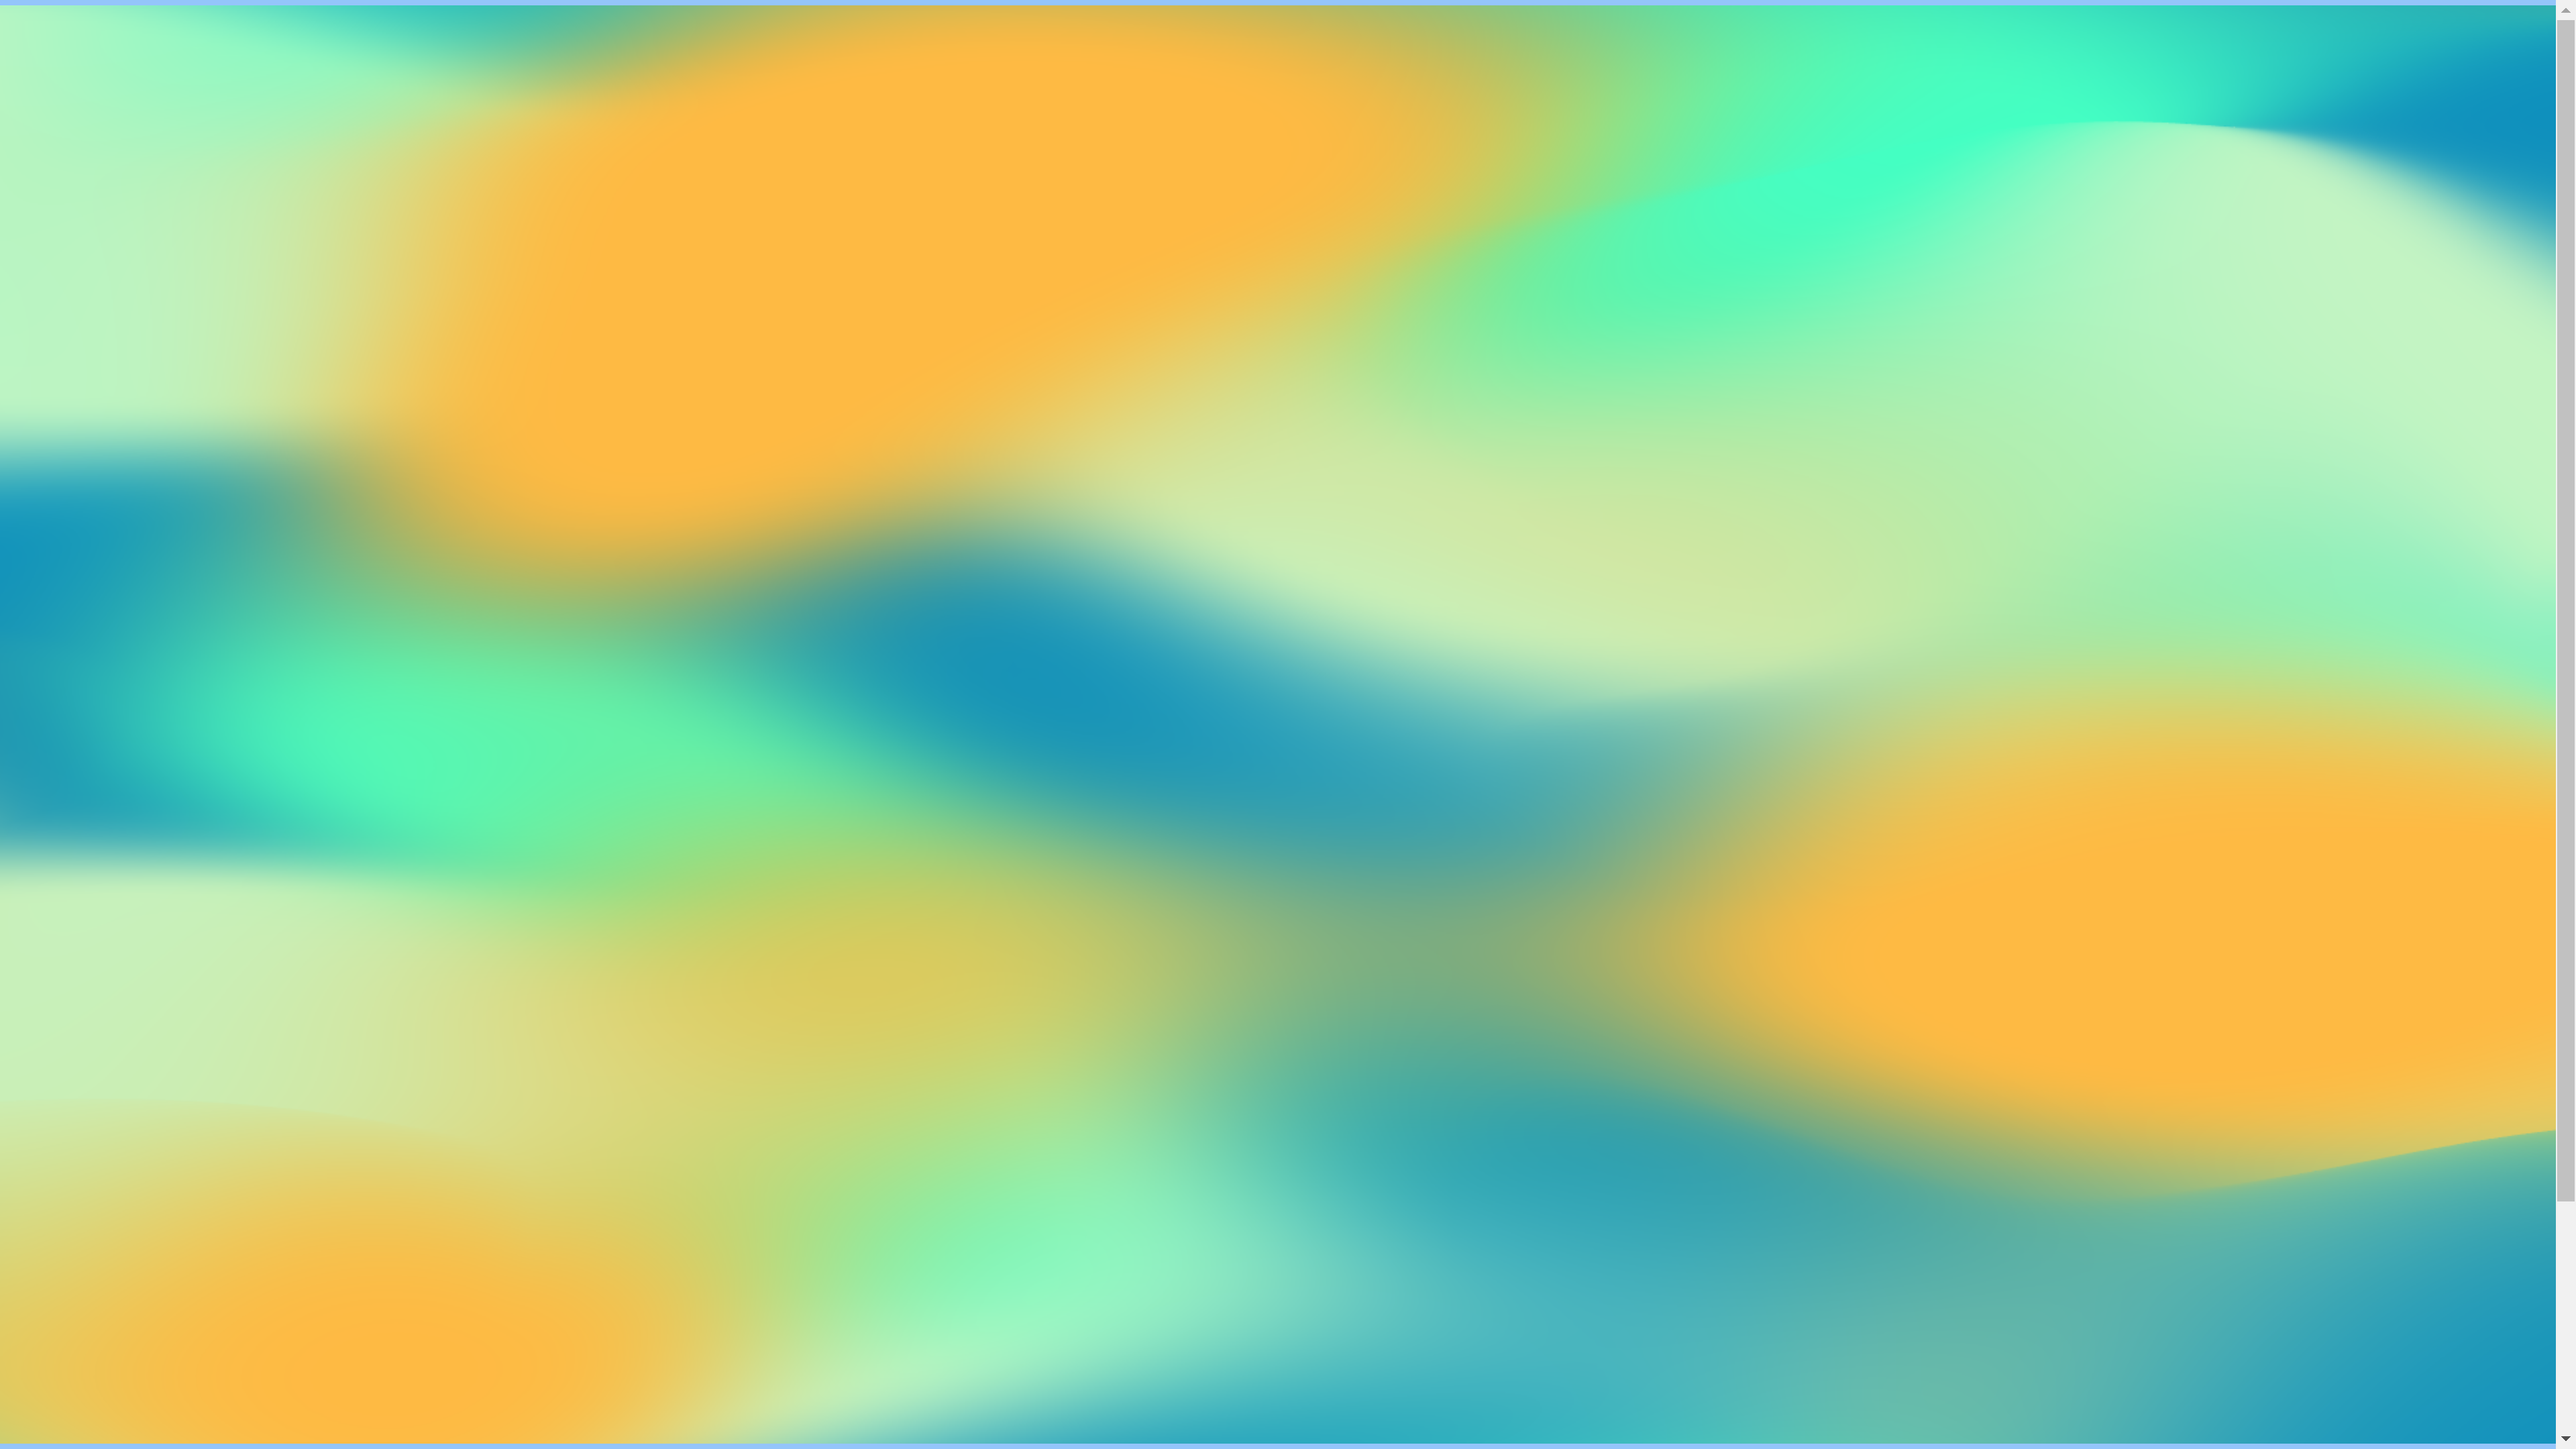
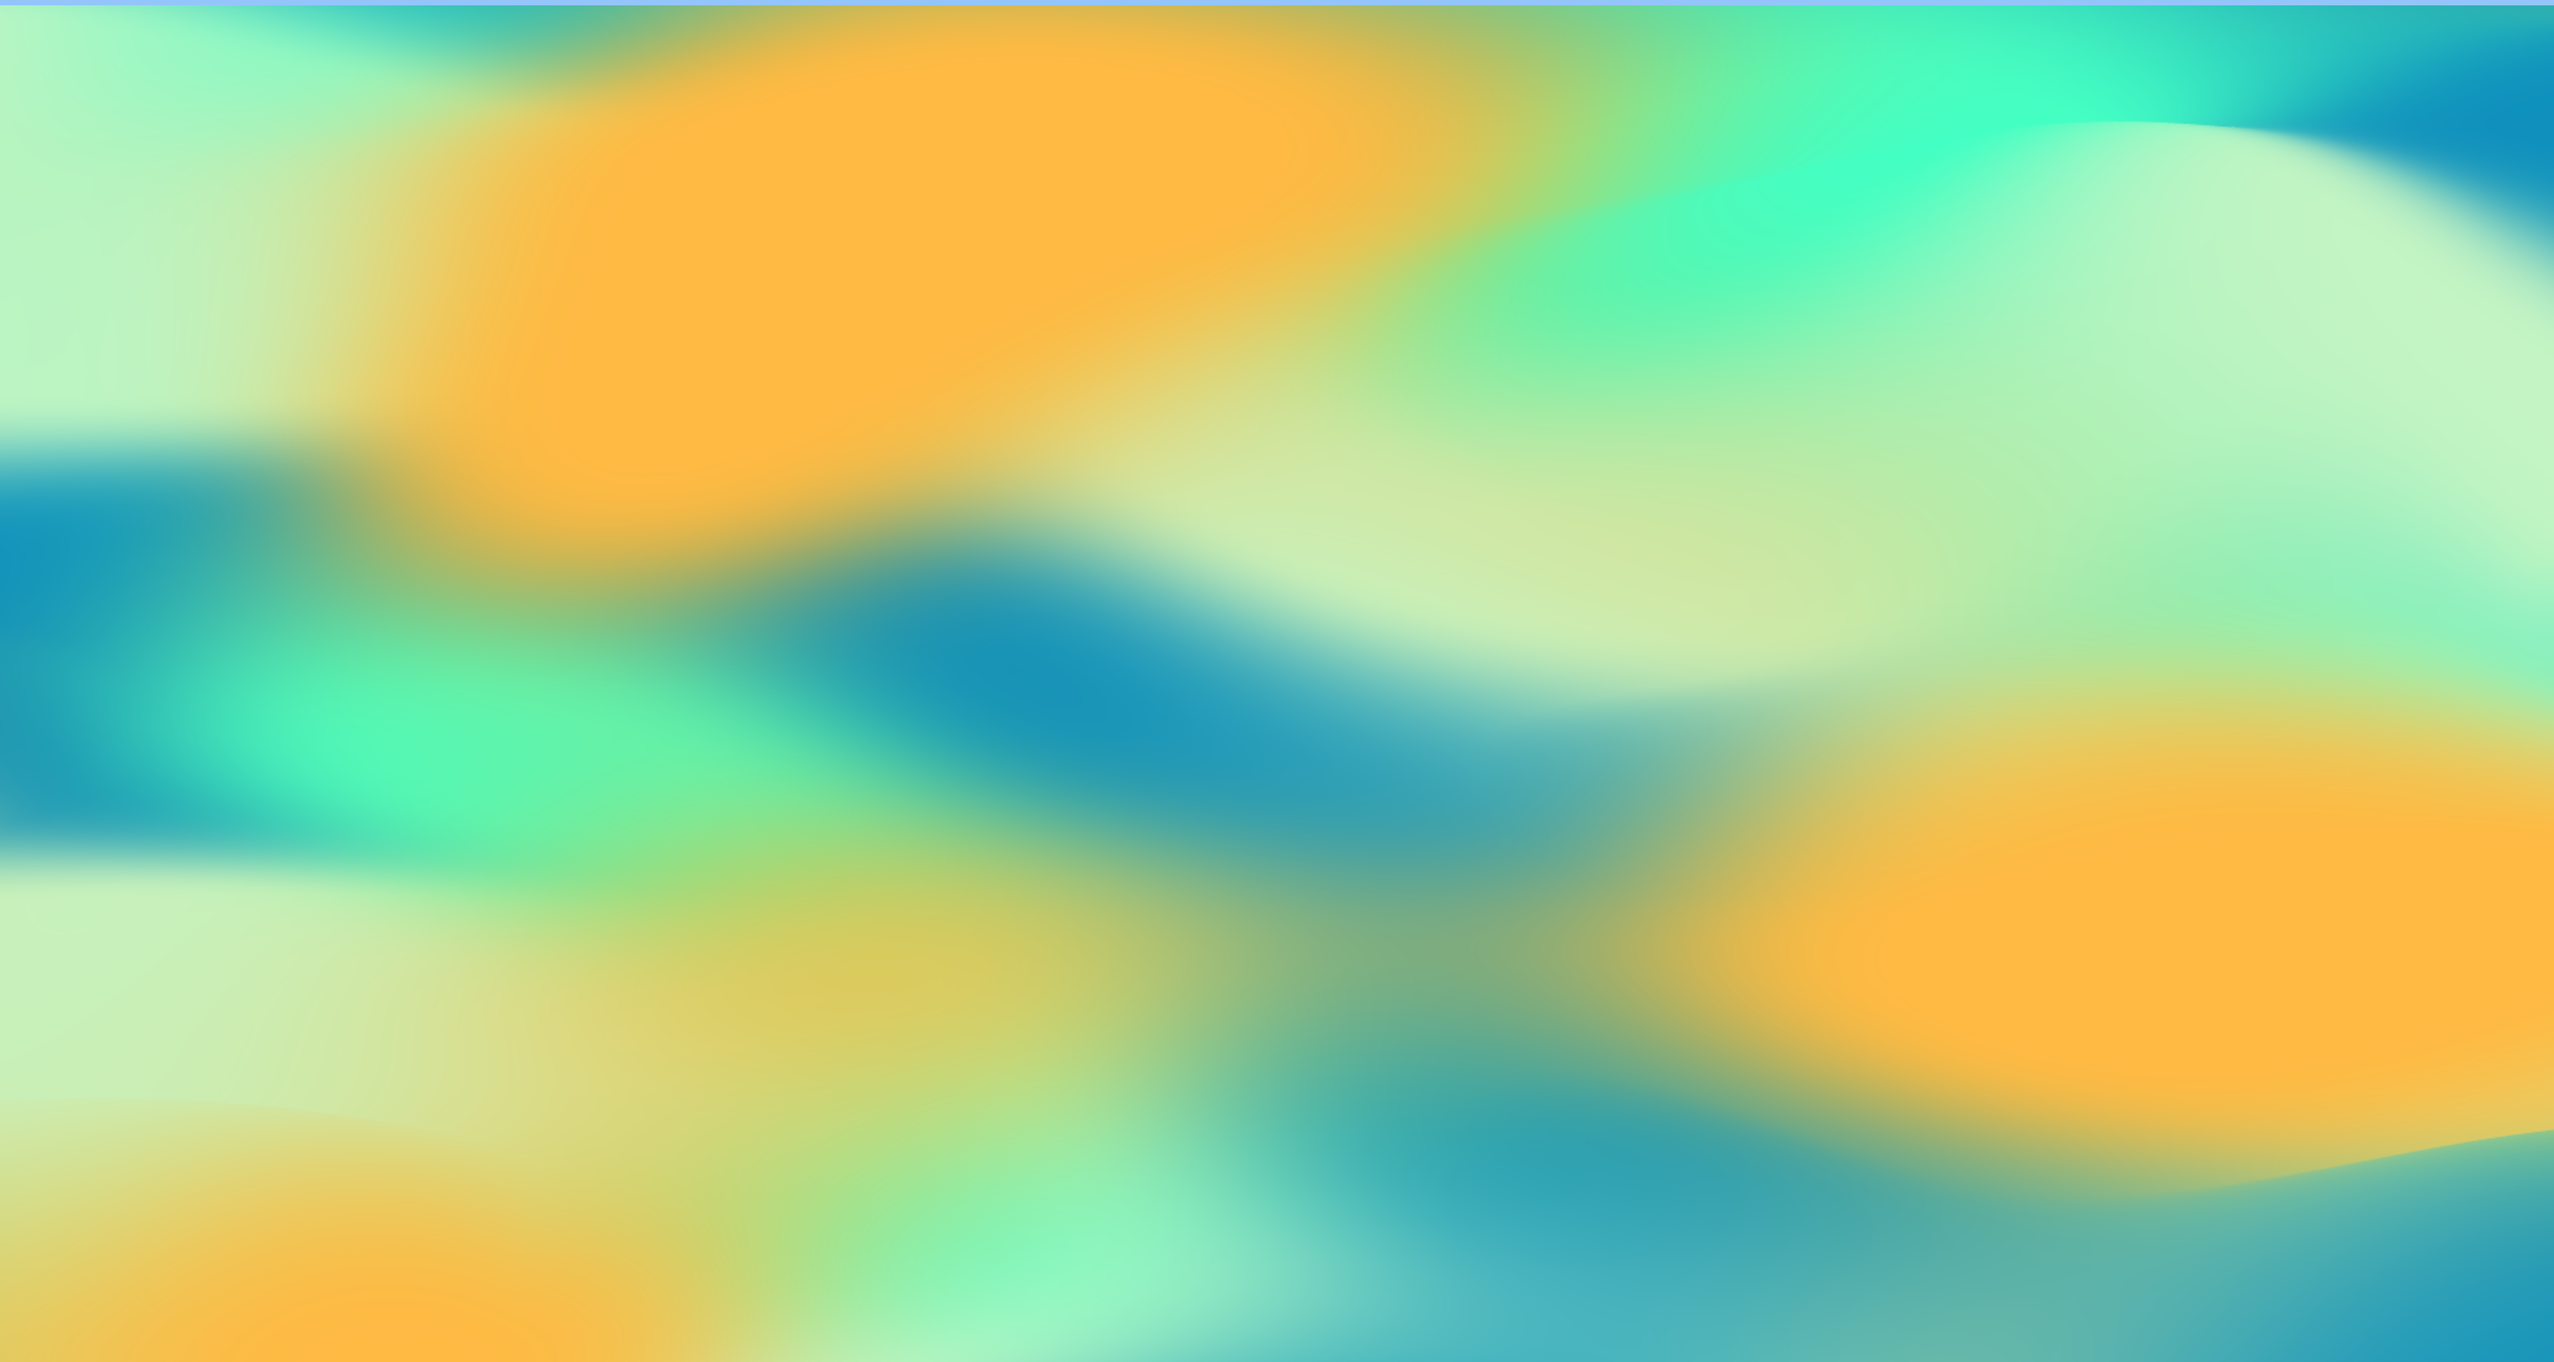
fix(multiple): fixed gradient issues

diff --git a/components/layout/Footer.tsx b/components/layout/Footer.tsx
@@ -3,7 +3,7 @@ import Icon from '@/components/icons'
 import clsx from 'clsx'
 import Link from 'next/link'
 
-const links = [
+const links1 = [
   {
     title: 'Home',
     path: '/',
@@ -12,6 +12,9 @@ const links = [
     title: 'Blog',
     path: '/blog',
   },
+]
+
+const links2 = [
   {
     title: 'Recommends',
     path: '/recommends',
@@ -26,14 +29,21 @@ export default function Footer({ className }: { className?: string }) {
   return (
     <footer className={clsx(className, 'bg-green-50 py-2')}>
       <div className='mt-16 flex flex-col items-center'>
-        <div className='grid grid-cols-3 items-center'>
+        <div className='grid grid-cols-4 items-center'>
           <div className='prose dark:prose-dark col-span-2 mb-5 flex space-x-4'>
             <Icon kind='github' size='40px' href={siteMetadata.github} />
             {/*<Icon kind="linkedin" href={siteMetadata.linkedin} />*/}
             <Icon kind='twitter' size='40px' href={siteMetadata.twitter} />
           </div>
           <div className='flex flex-col'>
-            {links.map((link) => (
+            {links1.map((link) => (
+              <Link href={link.path} key={link.path}>
+                <a className='text-xl'>{link.title}</a>
+              </Link>
+            ))}
+          </div>
+          <div className='flex flex-col'>
+            {links2.map((link) => (
               <Link href={link.path} key={link.path}>
                 <a className='text-xl'>{link.title}</a>
               </Link>

diff --git a/components/HomeHeader.tsx b/components/HomeHeader.tsx
@@ -26,7 +26,7 @@ export default function HomeHeader() {
   return (
     <div className='flex min-h-screen flex-col items-center justify-center'>
       <div className='min-w-screen canvas-container absolute flex min-h-screen items-center justify-center'>
-        <canvas id='gradient-canvas' className='min-h-screen' />
+        <canvas id='gradient-canvas' className='min-w-screen min-h-screen' />
       </div>
 
       <div className='z-10 m-20'>

diff --git a/styles/main.css b/styles/main.css
@@ -28,6 +28,11 @@ body {
 
 .canvas-container {
   background-image: url('/images/bg-gradient.png');
+  background-repeat: no-repeat;
+  background-size: cover;
+  background-position: center;
+  width: 100%;
+  height: 100%;
 }
 
 .profile-image {
